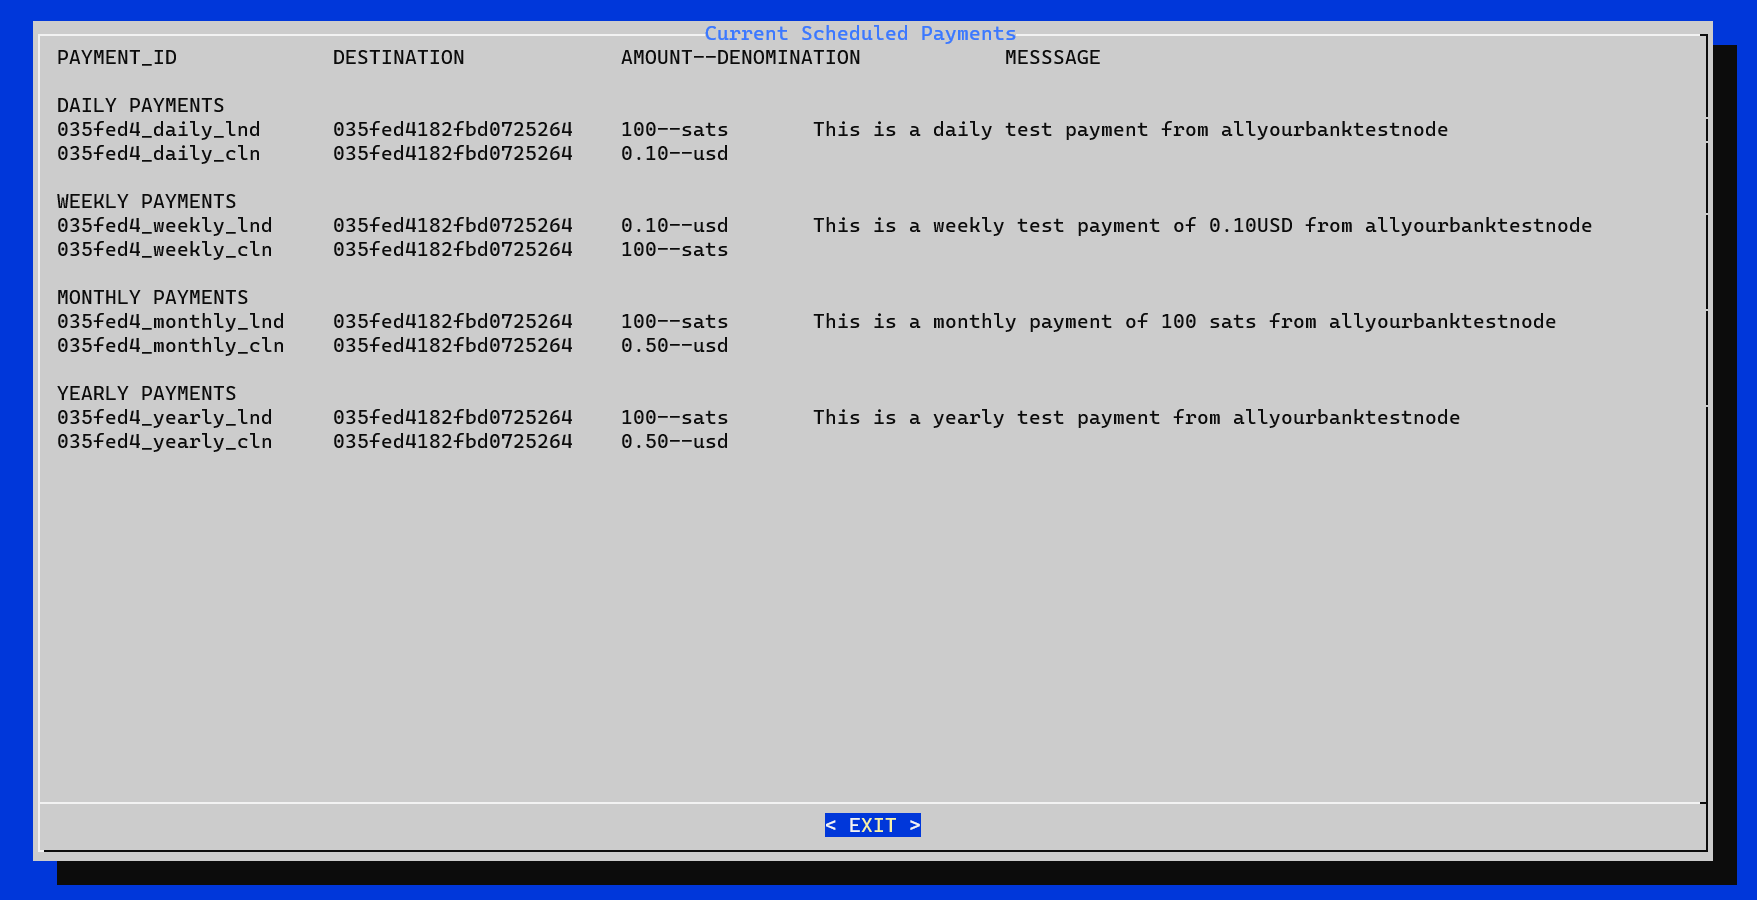
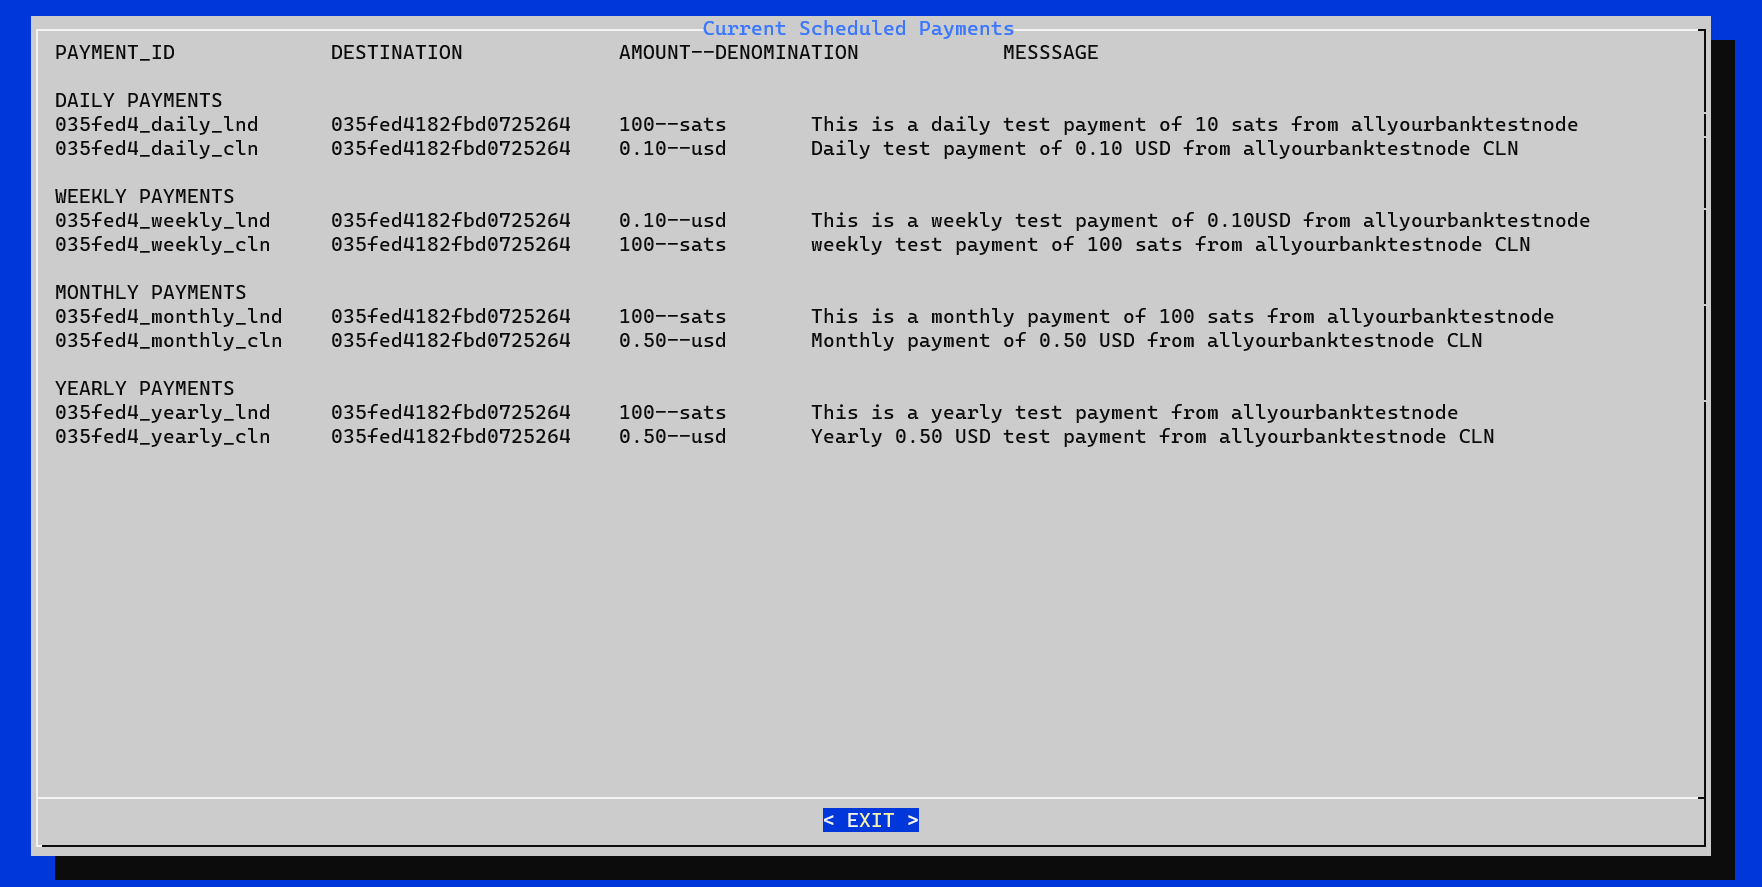
Update README

diff --git a/README.md b/README.md
@@ -5,14 +5,15 @@
 # Pleb-VPN  
 _Easy VPS sharing for cheaper hybrid solution for Plebs...built for Raspiblitz._
 
-`Version 0.9.1 including LND hybrid, CLN hybrid, WireGuard, tor split-tunneling, and recurring payments`
+`Version 1.0 including LND hybrid, CLN hybrid, WireGuard, tor split-tunneling, btcpay/lnbits letsencrypt, and recurring payments with keysend messages`
 
 **Pleb-VPN is a Raspiblitz tool set that allows you to easily take your node
 from a tor-only node to a hybrid solution with a public Virtual Private Server, _either yours 
 or someone elses!_ It also includes a number of tools to facilitate this, including an 
 easy-to-install implementation of WireGuard for private, secure VPN access to your node 
-anywhere, anytime, and the ability to automatically send recurring payments over lightning 
-via keysend.**
+anywhere, anytime, the ability to take BTCPayServer and/or LNBits public, and the ability to 
+automatically send recurring payments over lightning via keysend and include a message in the 
+payment. Pleb-VPN works with both LND and Core Lightning node implementations.**
 
 Pleb-VPN was born out of the realization that tor was always going to be
 insufficient for routing nodes, and that most Plebs either won't afford
@@ -22,12 +23,14 @@ going clearnet for Plebs.
 
 Pleb-VPN is a free open-source Raspiblitz integration of OpenVPN and WireGuard, 
 and includes scripts to configure either LND or Core Lightning (or both!) for 
-hybrid mode. You may use this in conjunction with your own VPS set up as an 
-OpenVPN server, or you may contact me on TG @allyourbankarebelongtous or via email: 
-allyourbankarebelongtous@protonmail.com, agree to a small monthly fee (I don't know 
-how much it will cost me to expand yet or how big the demand is so accurate 
-pricing is difficult to predict), and obtain access to my VPS to go clearnet. 
-You would be paying for VPS access/use, not for Pleb-VPN.
+hybrid mode. It also includes the abiliy to take BTCPayServer and/or LNBits public using 
+LetsEncrypt for any DNS provider that allows a CNAME record. You may use this in conjunction 
+with your own VPS set up as an OpenVPN server, or you may contact me on TG @allyourbankarebelongtous 
+or via email: allyourbankarebelongtous@protonmail.com, agree to a $2.00 US per month fee for the 
+basic service (includes two ports, one for hybrid mode and one for wireguard), and 
+obtain access to my VPS to go clearnet. You would be paying for VPS access/use, not for Pleb-VPN.
+_Note: To gain access to port 443 for SSL is a bit more expensive for me, so it is an additional 
+$1.00 US per month for each port 443 forward from @allyourbankarebelongtous)._
 
 If there are any other Plebs who want to share their VPS for a small fee, feel free
 to advertize and direct interested parties here for the easy-to-implement Raspiblitz
@@ -47,6 +50,7 @@ increase the availability of clearnet/hybrid nodes on the lightning network!**
   - [Getting started](#getting-started)
     - [Connect the VPN](#connect-the-vpn)
     - [Go Hybrid](#go-hybrid)
+    - [LetsEncrypt for BTCPay and/or LNBits](#letsencrypt-for-btcpay-and-lnbits)
     - [Installing WireGuard](#installing-wireguard)
     - [Split-Tunneling tor](#split-tunneling-tor)
     - [Recurring Payments](#recurring-payments)
@@ -94,6 +98,10 @@ the node's clearnet traffic is the ONLY thing going through the VPN, whereas Ple
 by default sends ALL TRAFFIC through the VPN, and gives you the option to configure 
 split-tunneling so that tor is the only thing ALLOWED TO BYPASS the VPN. This allows 
 Pleb-VPN to run WireGuard over the VPN and allows you to run multiple nodes from one instance. 
+Pleb-VPN's other advantage is the ability to take BTCPayServer and/or LNBits public, allowing you 
+to grant easy, secure access to your LNBits implementation or to easily provide payment services 
+through BTCPayServer to the outside world. TunnelSats cannot do this.
+
 TunnelSats is also available for other node implementations easily, like Umbrel or MyNode. 
 However, Pleb-VPN is cheaper, and encourages Plebs to collaborate to make the lightning network 
 more decentralized (less reliance on one or two providers) and more robust (more 
@@ -106,10 +114,11 @@ encryption. The owner of the VPS (this is true regardless of if you run it yours
 or if you share, or if you use TunnelSats) _will_ know your home IP address. They will _NOT_ 
 have access to your LAN, your WireGuard virtual LAN, or your Raspiblitz itself. A bonus of 
 sharing a VPS is that there is no KYC required...the only knowledge the VPS owner will have
-that the rest of the world doesn't have is your home IP address.
+that the rest of the world doesn't have is your home IP address. _This is true whether you rent 
+your own VPS, use TunnelSats, or use Pleb-VPN with @allyourbankarebelongtous!_
 
 **Can I use this on an Umbrel/MyNode/Raspibolt/etc implementation?**  
-Sort of. The actual software here on GitHub is only for Raspiblitz, but if you
+Sort of. The actual software here on GitHub is only for Raspiblitz (for now), but if you
 can find a guide to install OpenVPN and take your node clearnet on your own nothing
 is stopping you from contacting @allyourbankarebelongtous or anyone else willing to
 share a VPS and paying them a small monthly fee to gain a clearnet IP and a couple of forwarded
@@ -120,7 +129,7 @@ There are numerous guides on how to do this.
 **I want to update my node. What do I need to do?**  
 Update like normal according to Raspiblitz instructions. Pleb-VPN will automatically
 reinstall and reconfigure to match what you had before, including any recurring 
-payments scheduled.
+payments scheduled or LetsEncrypt certs for BTCPay or LNBits.
 
 **Can I remove Pleb-VPN?**  
 Yes. The menu provides an option to completely uninstall and restore the original
@@ -208,6 +217,84 @@ an hour (takes time for the gossip data to propagate).
 ![LNDHybridStatus](pictures/lndhybridstatus.png)
 
 BOOM! You now have a hybrid node with a VPS!
+
+### LetsEncrypt for BTCPay and LNBits
+The LetsEncrypt service will show under the SERVICES Pleb-VPN menu only if it detects that either 
+BTCPayServer or LNBits is installed. Here's what it looks like:
+![letsencryptservice](pictures/letsencryptservice.png)
+
+If you have a VPS that is capable of forwarding port 443 to your raspiblitz, you can point a 
+domain to your VPS IP and forward it to BTCPay or LNBits, allowing you to accept payments from 
+customers on BTCPay and/or allow others to access your LNBits instance. It takes a bit more 
+work to enable both on your own VPS, but it's doable. If you subscribe to @allyourbankarebelongtous, 
+for a small extra fee per service I will forward you port 443 to either or both of your services.
+
+Once you have a domain that can reach your LNBits or BTCPayServer from the public internet over 
+port 443 through your VPS, it's time to get some SSL certs! This is where this service comes in 
+handy. This script configures LetsEncrypt on your Raspiblitz for either BTCPay, LNBits, or both using 
+CNAME authentication over your domain, so it works with any domain you have that allows you to enter 
+a CNAME record. If you're not sure you can enter a CNAME record, contact your DNS provider to ask. 
+
+Step 1 is to get your domain pointed to your VPS. 
+Step 2 is to forward the port (or contact your VPS provider to get them to forward the port) 
+Step 3 is to ensure that you know how to update the CNAME record of you domain
+
+Once all of these are accomplished, go ahead and run this script. When you first run the script, 
+it will display these instructions. Here's what it looks like:
+![letsencryptinstructions](pictures/letsencryptinstructions.png)
+
+You can tell you are ready to run the script if each domain you have (one for BTCPay and/or one 
+for LNBits) can access your instance and the only issue you have is it's warning you that your 
+connection is not trusted. You must also be ready to update the CNAME record of each domain.
+
+After you acknowledge the instructions, the script will install Certbot, which will guide you 
+through the install. Then the script has to gather some more information.
+
+Next you will be asked which service you want to install. The script will only display services you 
+have already installed on your node. If you intend to install LetsEncrypt for both BTCPayServer 
+and LNBits, it is recommended that you do so at the same time, as you will only get one cert, so 
+if you add another service at a different time you will have to update both CNAME records. Here's 
+what it looks like if you have both BTCPayServer and LNBits installed on your node: 
+![letsencryptselectservices](pictures/letsencryptselectservices.png)
+
+Once you have selected the service(s) that will be encrypted, the script asks for one (or both) 
+domain names. In this case, I have selected both. Here's domain entry No. 1:
+![letsencryptdomain1](pictures/letsencryptdomain1.png)
+
+If you selected both services, you'll need two separate domain names. The script will ask for a second 
+domain name if you selected both BTCPayServer and LNBits. Here's domain entry No. 2:
+![letsencryptdomain2](pictures/letsencryptdomain2.png)
+
+After this, the script displays instructions on entering the CNAME record. It looks like this: 
+![letsencryptinstructions](pictures/letsencryptinstructions.png)
+
+Then Certbot starts to run and will ask you if you agree to the terms:
+![Certbot_terms](pictures/Certbot_terms.png)
+
+Once you agree, it will finish and display this screen:
+![CNAME_Challenges](pictures/CNAME_Challenges.png)
+
+**IMPORTANT! You must update your CNAME records before pressing enter!**  
+Here I have to enter my CNAME records for both btcpay.allyourbank.ink and lnbits.allyourbank.ink 
+to demonstrate that I own those domains. Here's what my DNS service looks like after the update 
+(this is using name.com, which has good prices and a good reputation):
+![CNAME_Entry](pictures/CNAME_Entry.png)
+
+After you update your CNAME record(s), wait a bit for the update to propagate (a minute is more 
+than enough usually), and then hit enter. The script should finish installing the certs and you should 
+be good to go!
+
+Here's my BTCPayServer and LNBits from the example above showing a secure connection:
+![btcpayssl](pictures/btcpayssl.png)
+![lnbitsssl](pictures/lnbitsssl.png)
+
+_Note: If you have already installed LetsEncrypt previously and are re-enabling it after turning it off, 
+the script will detect a previous configuration and ask you if you want to keep it. Only select "Use Existing"  
+if you haven't changed anything about the domains, including the CNAME record you established when first 
+enabling LetsEncrypt._
+
+Certbot will auto-update the certs when necessary, and Pleb-VPN should preserve the certs through 
+Raspiblitz updates or sd card reflashes.
 
 ### Installing WireGuard
 Let's install WireGuard next. Using the services menu, toggle WireGuard on.
@@ -325,6 +412,15 @@ Then asks for the pubkey of the receiver:
 Then how often to send:  
 ![HowOften](pictures/howoften.png)
 
+Then you are asked if you want to include a message. Keysends are anonymous, in that the receiver 
+has no way of knowing who the sender is. You can include a message (required for @allyourbankarebelongtous 
+subscriptions) that tells the sender who is sending and why. This will work with both LND and Core Lightning 
+node implementations. If you wish to include a message, select "yes": 
+![keysendmessage](pictures/keysendmessage.png)
+
+Here, enter your message:
+![enterkeysendmessage](pictures/enterkeysendmessage.png)
+
 That's it. The payment is scheduled! The script will NOT send the payment right away,
 it will wait until 00:00:00 UTC, and only send on the following schedule:  
 DAILY - Every day at 00:00:00 UTC  
@@ -333,7 +429,7 @@ MONTHLY - Every 1st day of the month at 00:00:00 UTC
 YEARLY - Every 1st day of the year at 00:00:00 UTC  
 
 Use VIEW to view your currently scheduled payments. Here's an example of me paying myself
-a bunch of times for testing purposes from both LND and Core Lightning:  
+a bunch of times for testing purposes from both LND and Core Lightning with test messages:  
 ![ViewPayments](pictures/veiwpayments.png)
 
 Use DELETE to get rid of a payment. Here's what that looks like:  
